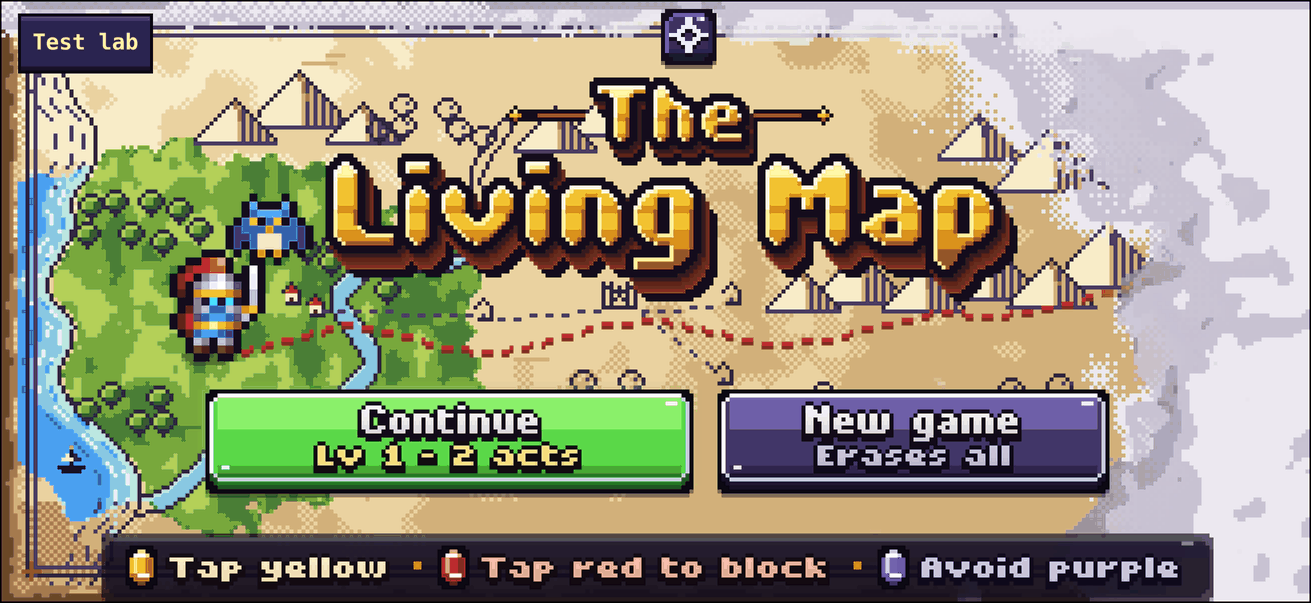
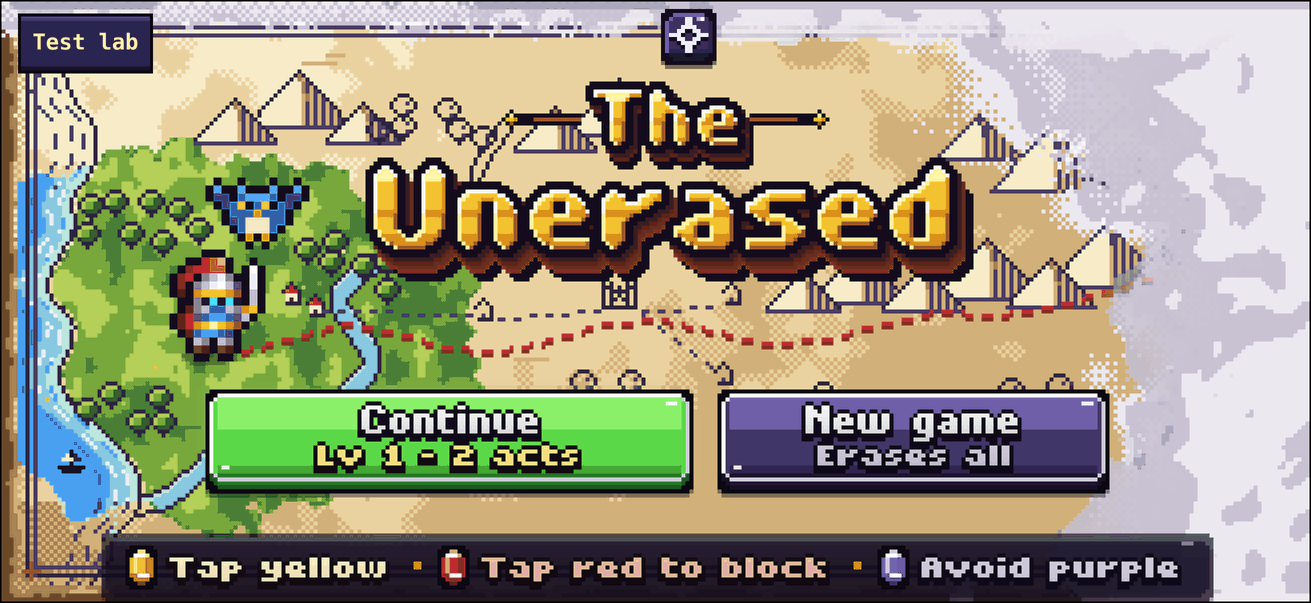
Title: the erased land keeps the impression of its lines (pale dents in the blank), softer fog banks; screenshots with the game's name
Claude-Session: https://claude.ai/code/session_01XHk7WXwUp52tGKCfxLyk6o

diff --git a/src/engine/art-title.ts b/src/engine/art-title.ts
@@ -1,7 +1,8 @@
 // The title's key art (docs/art-style.md, "The Atlas"): the Great Atlas spread open under lamplight. A parchment map
 // drawn in ink (a coast with ripple lines, a river, forests, mountains, villages, a castle, a compass rose, a double
 // neatline), with colour bleeding out like watercolour round the spot where the hero stands (the drawing come alive)
-// and fog at the right and top edges where the land was erased (the lines fade, break and vanish into it).
+// and fog at the right and top edges where the land was erased (the lines fade and break into it; in the blank only
+// their impression is left, pale dents in the vellum).
 // Also the logo, generated from GAME_NAME (src/data/brand.ts) so a rename just works: the bold font's letters scaled
 // 3x with Scale3x rounding, a gold face with a horizon band, a cream rim light on the top-left edges, a deep extrusion
 // toward the bottom right, a 2 px ink outline; a leading article ("The") set small above, flanked by ink flourishes.
@@ -174,8 +175,15 @@ function paintAtlas(): HTMLCanvasElement {
     x = Math.round(x);
     y = Math.round(y);
     const f = fogness(x, y);
-    if (f > 0.72) return;
-    if (f > 0.42 && hash(x, y, 9) < (f - 0.42) * 2.6) return;
+    // erased land keeps the impression: the dent of every line once pressed into the vellum, pale, lit from the
+    // top left (story-bible section 2, rule 5)
+    if (f > 0.72 || (f > 0.42 && hash(x, y, 9) < (f - 0.42) * 2.6)) {
+      if (f > 0.5) {
+        p.set(x, y, FOG[2]);
+        if (p.get(x - 1, y - 1) === FOG[3] || p.get(x - 1, y - 1) === FOG[2]) p.set(x - 1, y - 1, 0xf8f6fa);
+      }
+      return;
+    }
     p.set(x, y, f > 0.3 ? AINK[2] : col);
   };
   const line = (x0: number, y0: number, x1: number, y1: number, col = AINK[1], dash = 0) => {
@@ -517,7 +525,8 @@ function paintFog(w: number, h: number, f: (x: number, y: number) => number, see
       const slope = at(x - 2, y - 2) - at(x + 2, y + 2);
       let col = v > 0.9 ? FOG[3] : FOG[2];
       if (slope > 0.12) col = FOG[3];
-      else if (slope < -0.16) col = v > 0.8 ? FOG[2] : FOG[1];
+      else if (slope < -0.3 && v < 0.8) col = FOG[1];
+      else if (slope < -0.12) col = FOG[2];
       p.set(x, y, col);
     }
   return p.canvas((x, y, col) => (col === FOG[1] ? 0.75 : clamp01(0.55 + at(x, y) * 0.5)));
